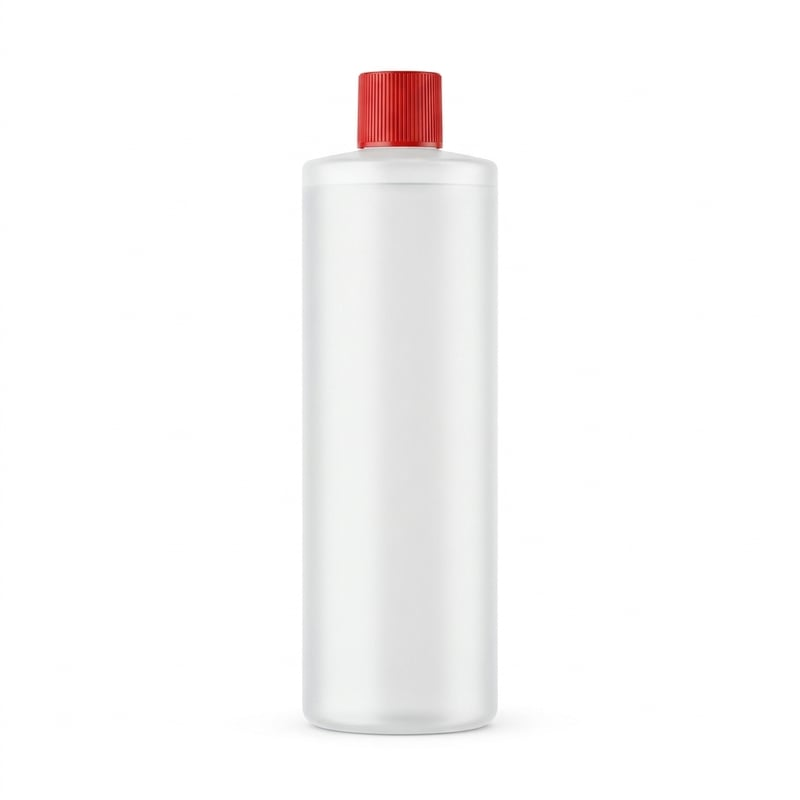
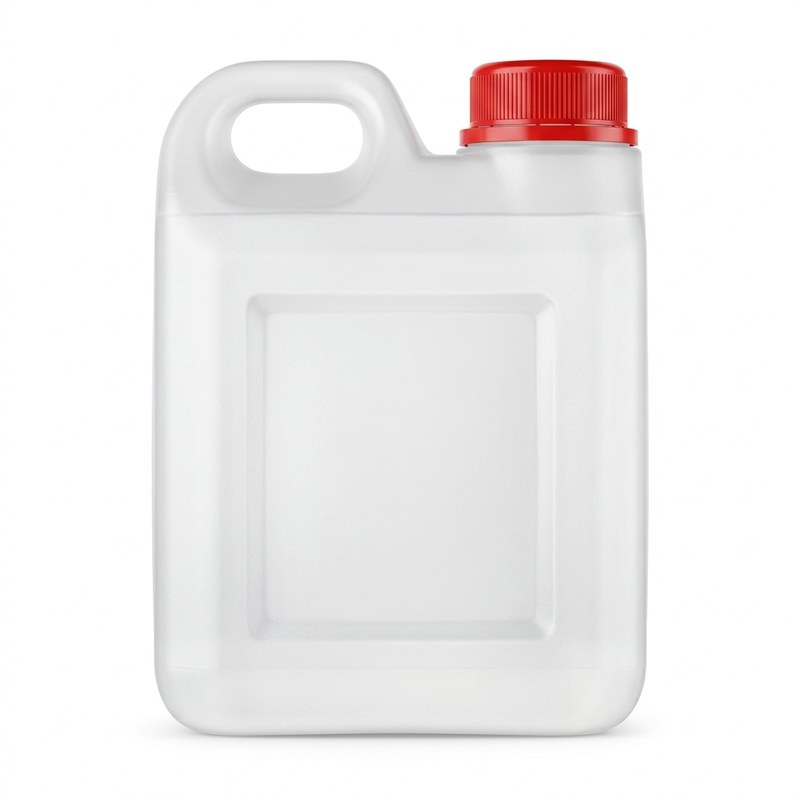
fix(insumos): swap 1L and half-liter alcohol bottle images

Changed region(s): [[0.1875, 0.0625, 0.8125, 0.9375], [0.5625, 0.25, 0.5938, 0.2812]]

diff --git a/src/lib/store.ts b/src/lib/store.ts
@@ -1727,7 +1727,7 @@ export const INITIAL_PRODUCTS: ProductItem[] = [
     "cost": 1.1,
     "stock": 30,
     "minStock": 10,
-    "imageUrl": "/images/insumos/alcohol_perfumero_fijador_1l.jpg",
+    "imageUrl": "/images/insumos/alcohol_perfumero_fijador_1l.jpg?v=2",
     "description": "Alcohol especial para perfumería con fijador (1 Litro)",
     "isAvailableOnline": true,
     "puesto": "C1",
@@ -1747,7 +1747,7 @@ export const INITIAL_PRODUCTS: ProductItem[] = [
     "cost": 1.1,
     "stock": 14,
     "minStock": 5,
-    "imageUrl": "/images/insumos/alcohol_perfumero_fijador_medio_litro.jpg",
+    "imageUrl": "/images/insumos/alcohol_perfumero_fijador_medio_litro.jpg?v=2",
     "description": "Alcohol especial para perfumería con fijador (Medio Litro)",
     "isAvailableOnline": true,
     "puesto": "C1",
@@ -2039,7 +2039,7 @@ export const INITIAL_PRODUCTS: ProductItem[] = [
   }
 ];
 
-export const DATA_VERSION = "2026_oficial_real_v31_caja_generica";
+export const DATA_VERSION = "2026_oficial_real_v32_alcohol_swap";
 
 export function resetDatabaseToInitialStock(): ProductItem[] {
   if (typeof window === 'undefined') return INITIAL_PRODUCTS;
